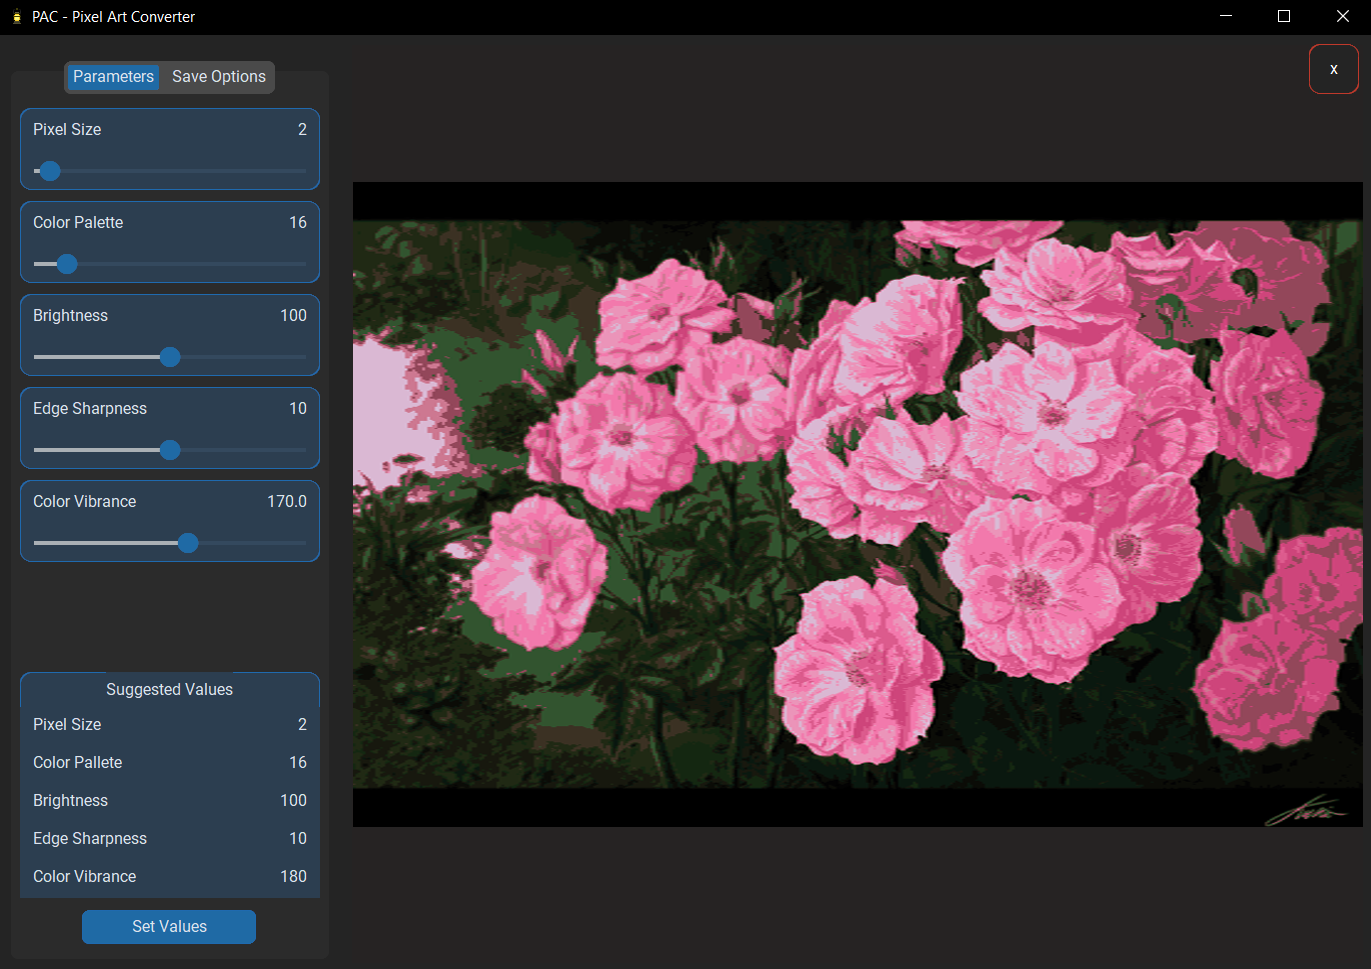
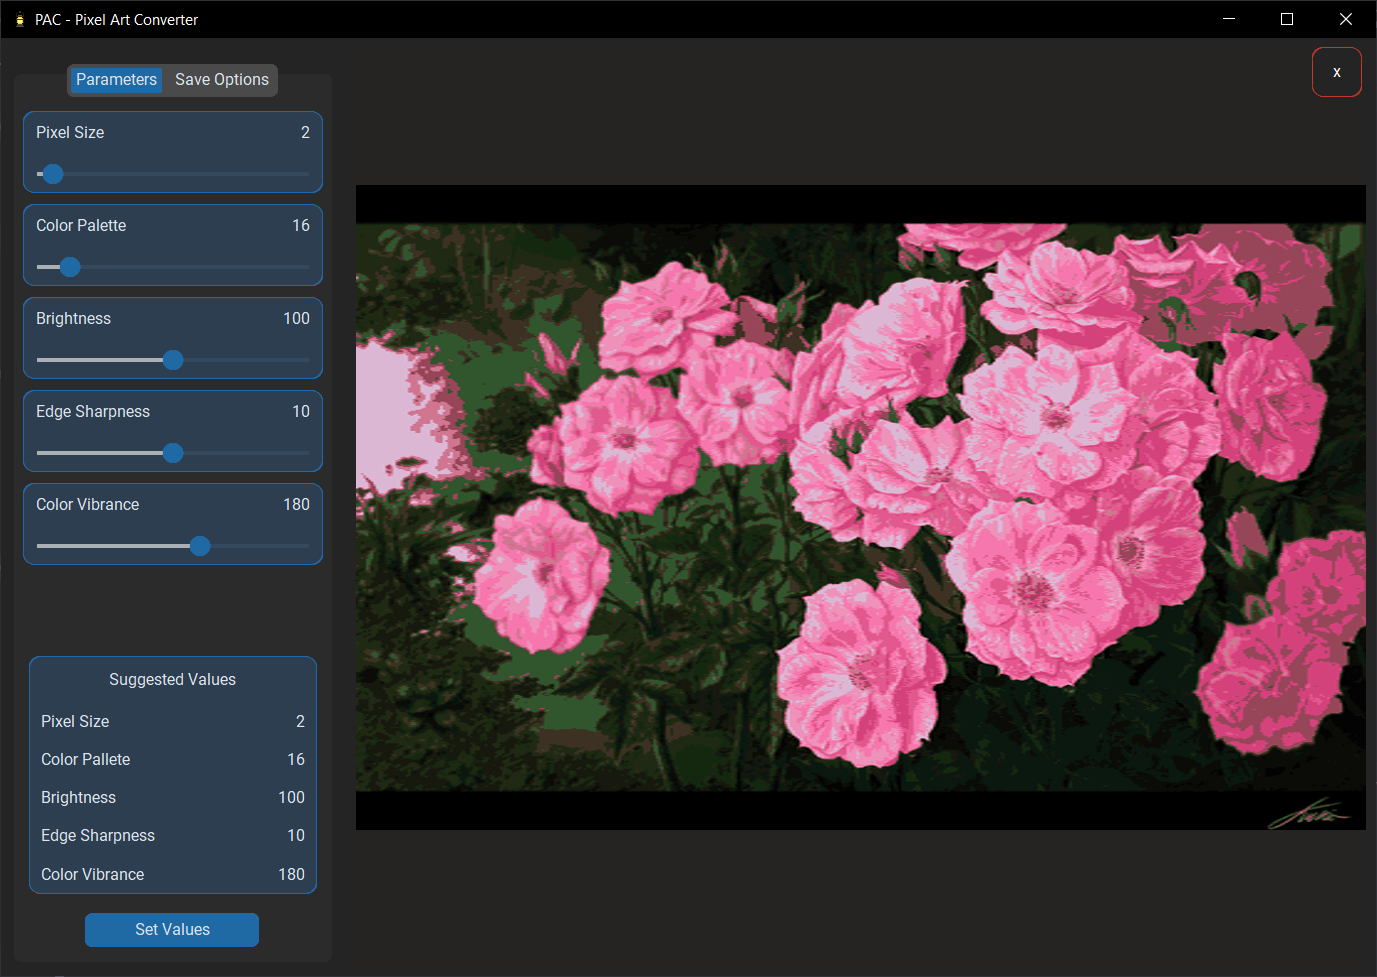
fixed frame positioning, updated readme

diff --git a/utils/Panels.py b/utils/Panels.py
@@ -169,7 +169,7 @@ class SuggestedValues(ctk.CTkFrame):
 class AnalysisPanel(Panel):
     def __init__(self, parent, image):
         super().__init__(parent=parent)
-        self.pack(side='bottom', pady=0, padx=5, fill='x')
+        self.pack(side='bottom', pady=10, padx=5, fill='x')
         self.image = image
 
         ctk.CTkLabel(self, text="Suggested Values").pack(pady=5)
